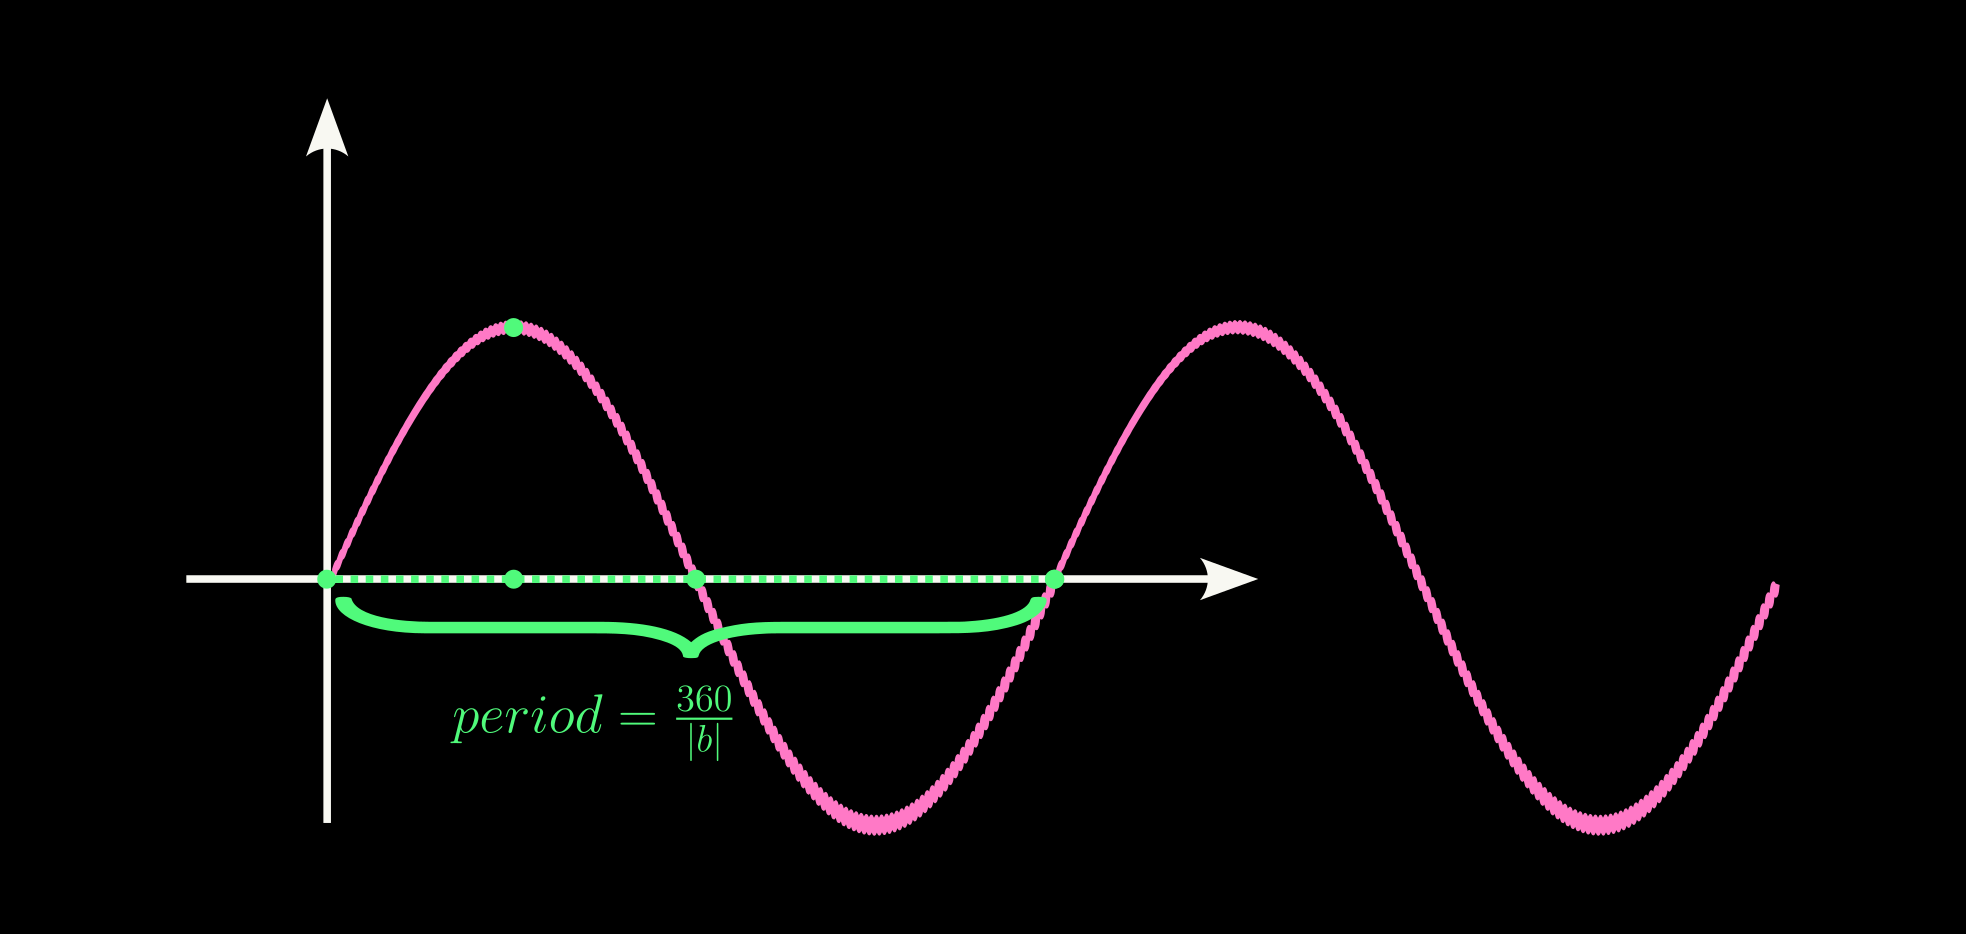
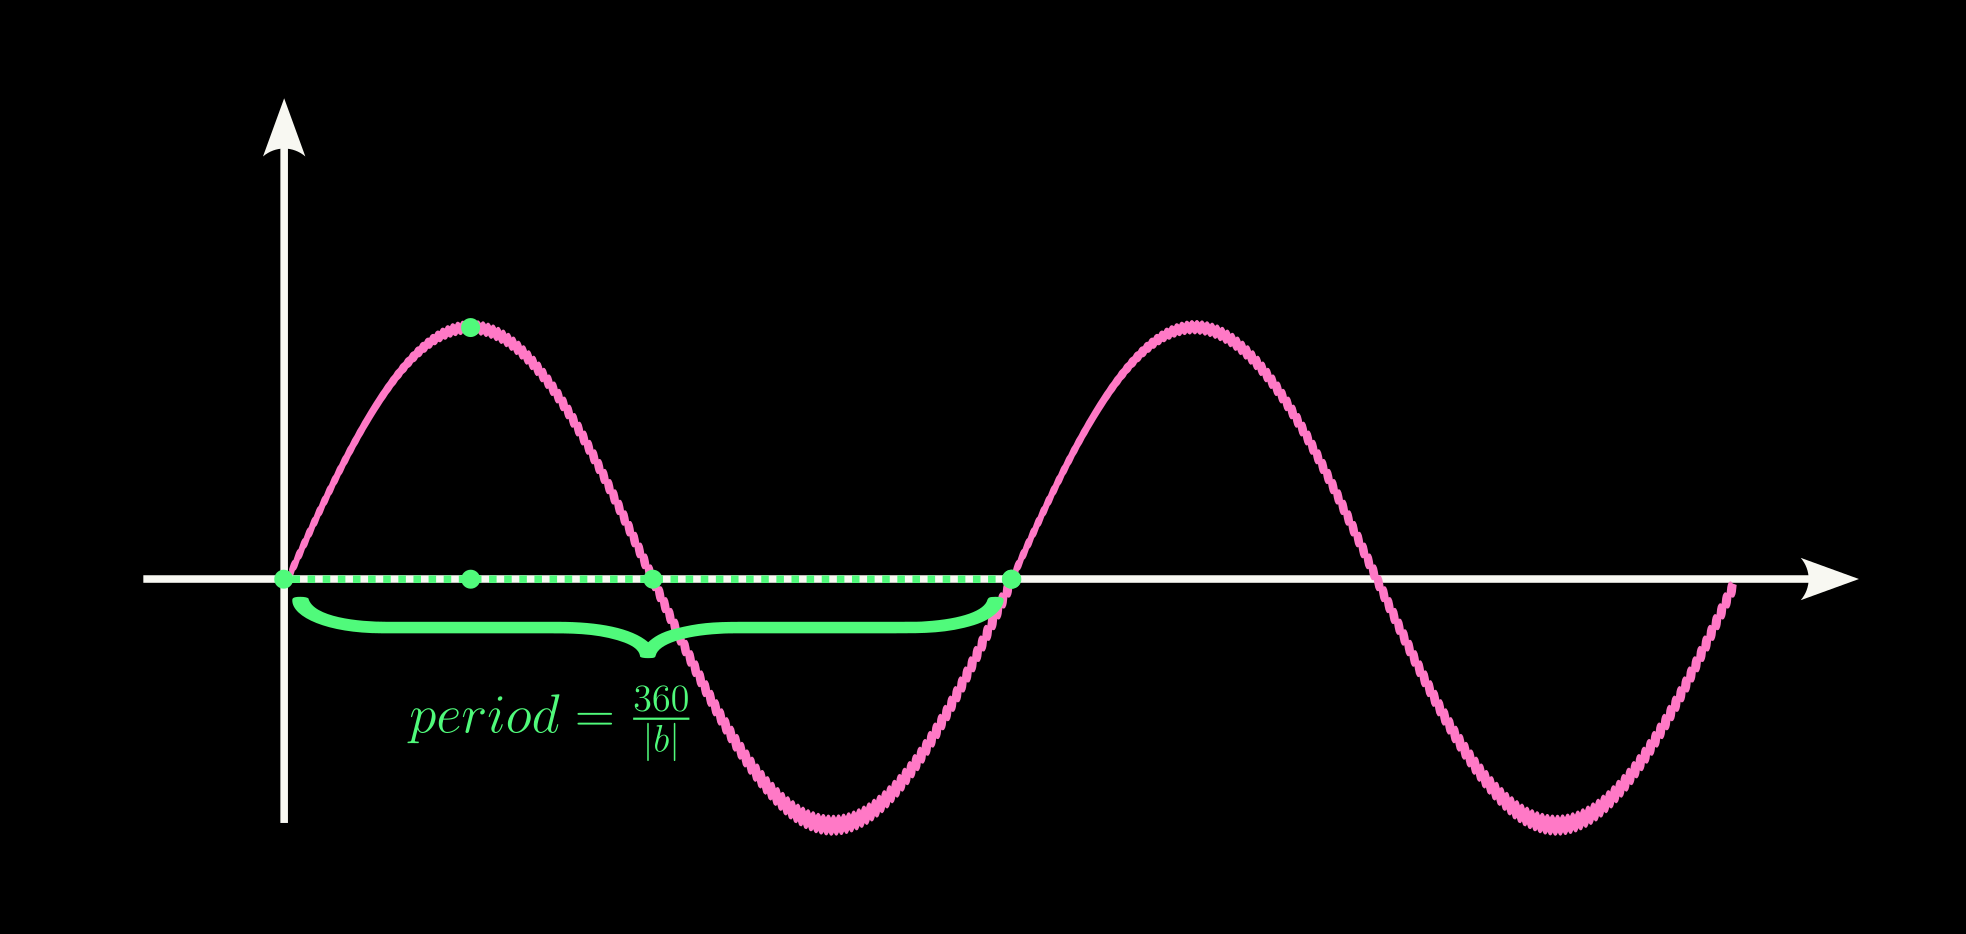
Agregar modificaciones de trigonometric functions

Changed region(s): [[0.1241, 0.1242, 0.9619, 0.9004], [0.2172, 0.5899, 0.2792, 0.621], [0.0621, 0.5899, 0.0931, 0.621]]

diff --git a/_projects/trigonometric_ratios_functions.md b/_projects/trigonometric_ratios_functions.md
@@ -163,7 +163,7 @@ These are the key angles you must memorize:
 |--------|------------|------------|------------|
 | $\sin$ | $\frac{1}{2}$ | $\frac{\sqrt{2}}{2}$ | $\frac{\sqrt{3}}{2}$ |
 | $\cos$ | $\frac{\sqrt{3}}{2}$ | $\frac{\sqrt{2}}{2}$ | $\frac{1}{2}$ |
-| $\tan$ | $\frac{1}{\sqrt{3}}$ | $1$ | $\sqrt{3}$ |
+| $\tan$ | $\frac{\sqrt{3}}{3}$ | $1$ | $\sqrt{3}$ |
 
 ---
 
